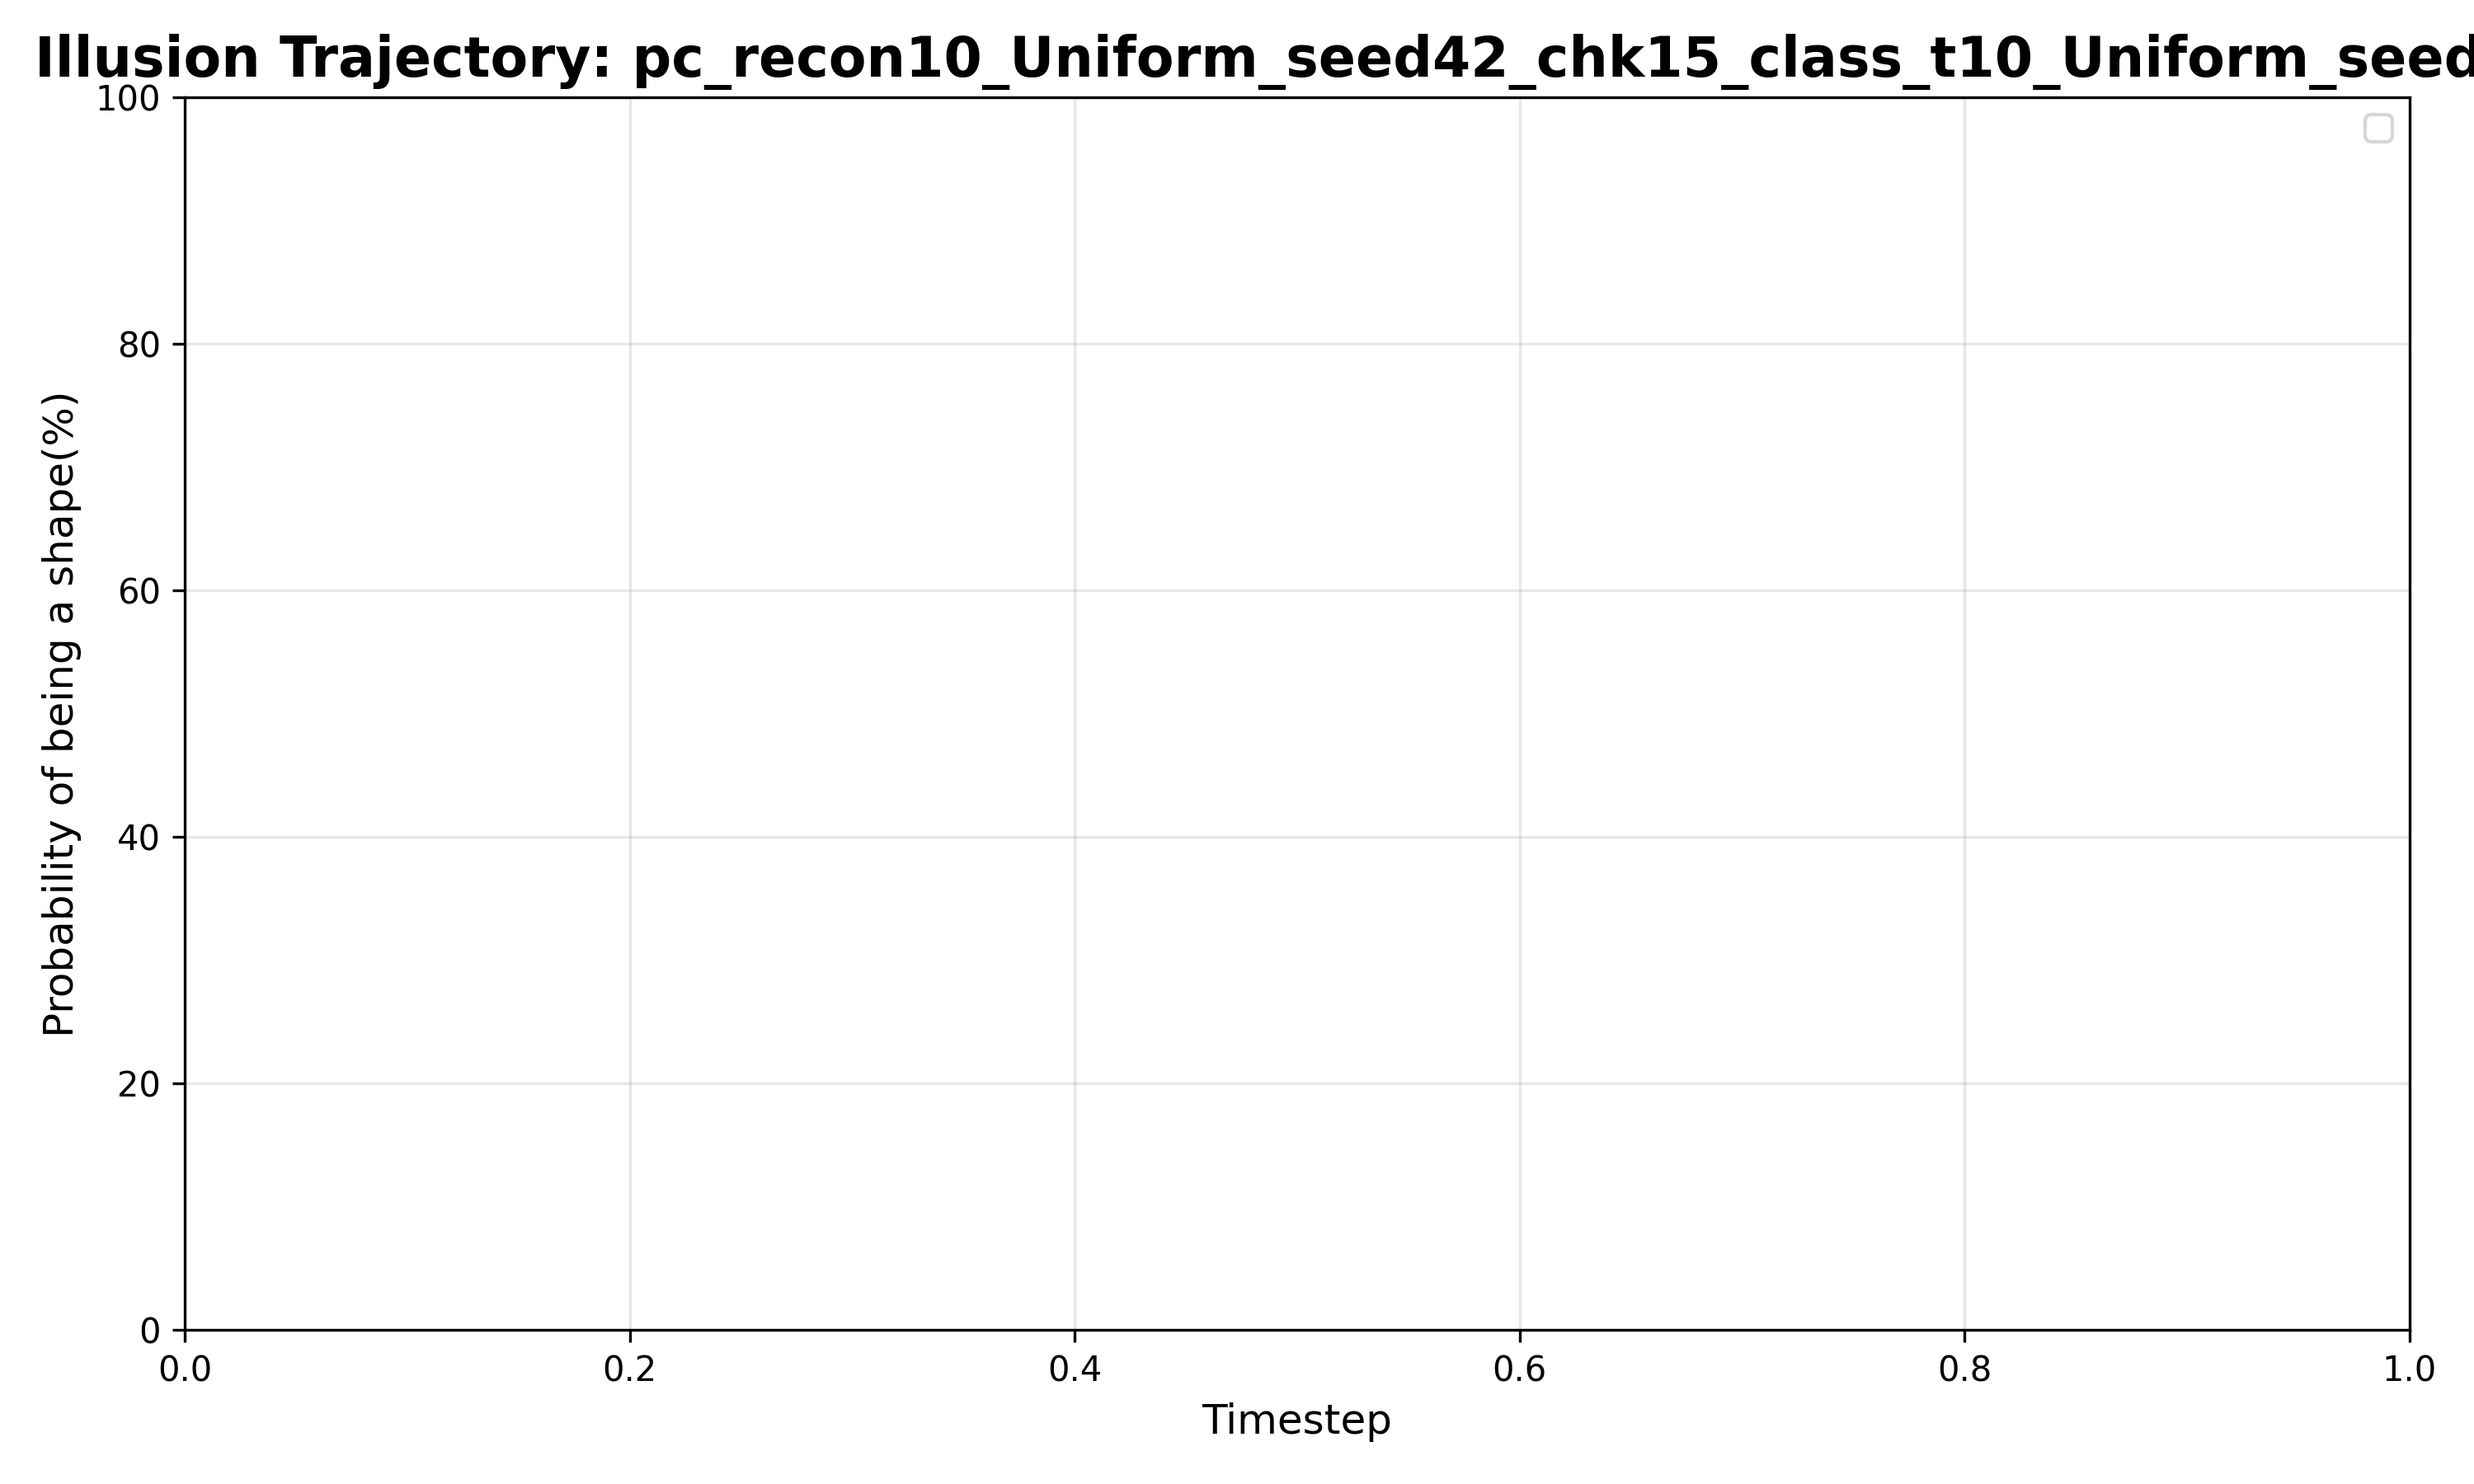
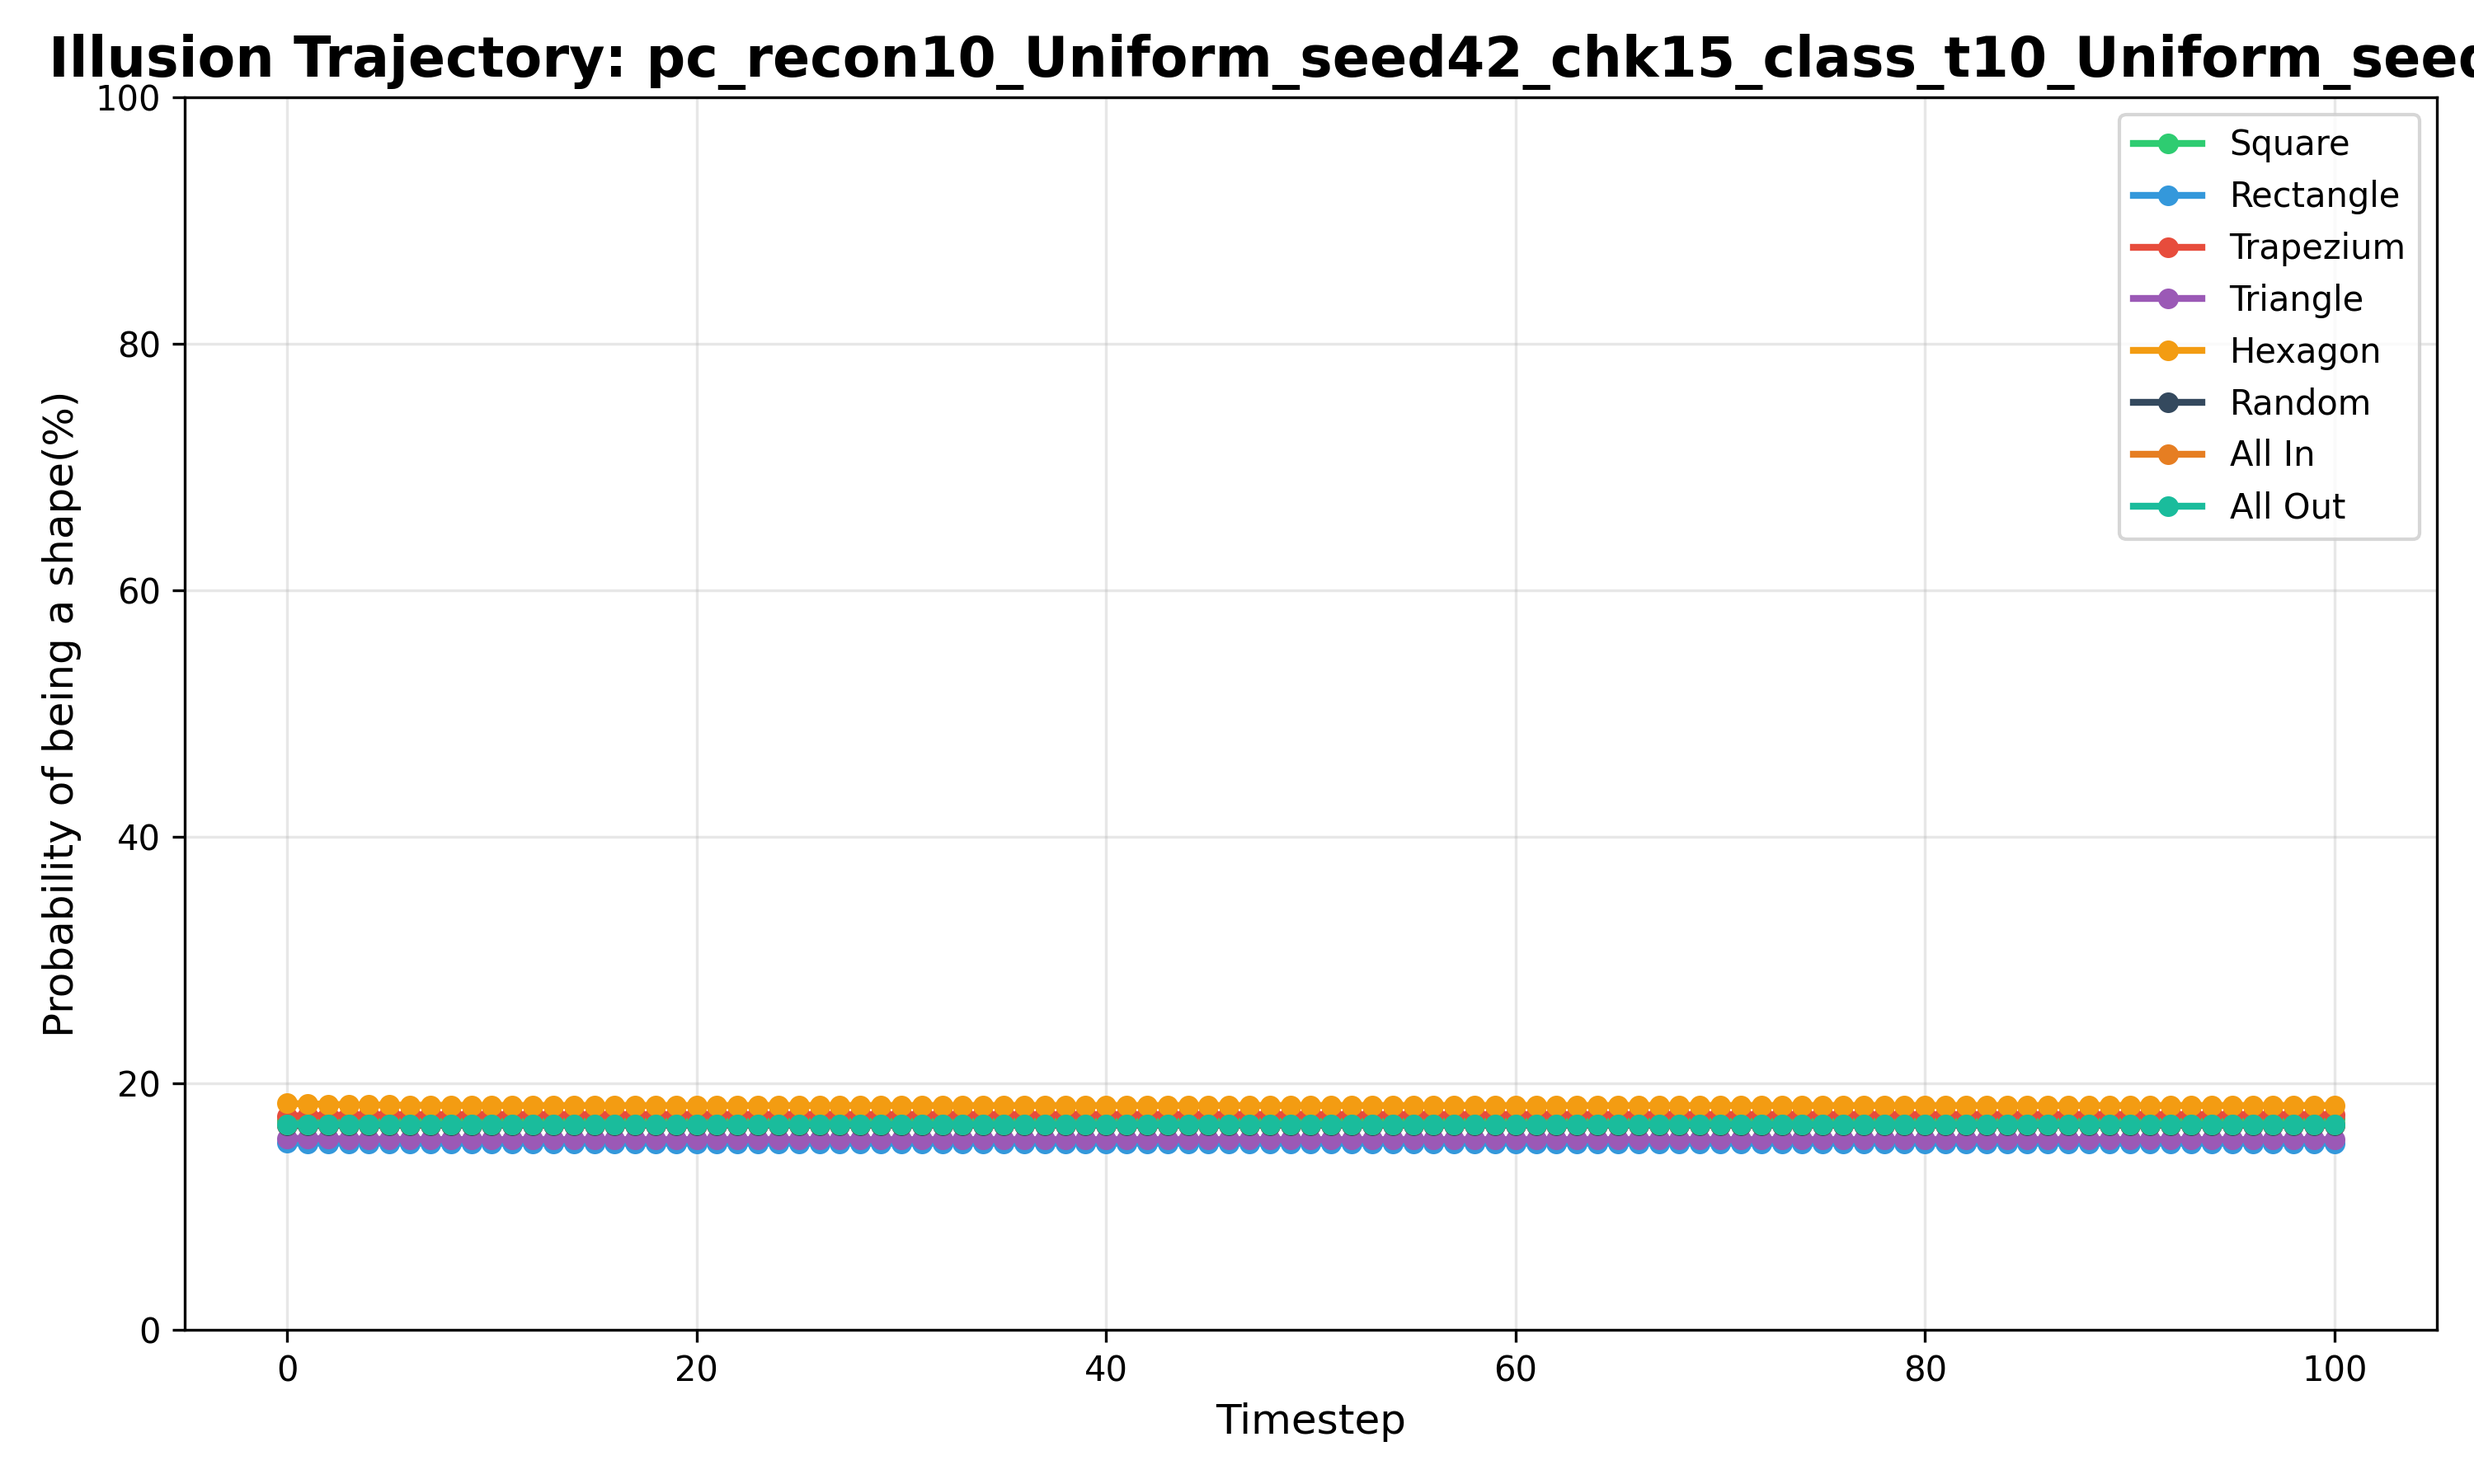
illusion testing debug

diff --git a/week11/illusion_pc_train.py b/week11/illusion_pc_train.py
@@ -189,22 +189,20 @@ def illusion_pc_training(net, trainloader, validationloader, testloader,
     # ============================================================
     if pc_train_bool == "test":
 
-        # Get class mapping from testloader
-        # testloader.dataset is a Subset, dataset.dataset is the original
-        # SquareDataset
+        """
+        Fixed test mode with proper predictive coding iterations
+        """
+        # Get class mapping
         test_dataset = testloader.dataset
         if hasattr(test_dataset, 'dataset'):
-            # It's a Subset
             class_to_idx = test_dataset.dataset.class_to_idx
         else:
-            # Direct dataset
             class_to_idx = test_dataset.class_to_idx
 
         print(f"\nTesting model: {model_name}")
         print(f"Class mapping: {class_to_idx}")
 
-        # Initialize results storage for ALL classes (including all_in,
-        # all_out)
+        # Initialize results storage
         all_classes = list(class_to_idx.keys())
         class_results = {
             cls: {
@@ -216,34 +214,21 @@ def illusion_pc_training(net, trainloader, validationloader, testloader,
 
         net.eval()
 
-        # Don't use torch.no_grad() because predictive_coding_pass needs
-        # gradients!
         for batch_idx, batch_data in enumerate(testloader):
             images, labels, cls_names, should_see = batch_data
-
             images_orig = images.to(config.device)
             labels = labels.to(config.device)
 
             # Process with different noise levels
             for noise in np.arange(0, 0.35, 0.05):
-                images = noisy_img(
-                    images_orig.clone(), "gauss", round(
-                        noise, 2))
+                images = noisy_img(images_orig.clone(), "gauss", round(noise, 2))
 
                 # Initialize feature tensors with actual batch size
                 batch_size = images.size(0)
-                ft_AB_pc_temp = torch.zeros(
-                    batch_size, 6, 32, 32).to(
-                    config.device)
-                ft_BC_pc_temp = torch.zeros(
-                    batch_size, 16, 16, 16).to(
-                    config.device)
-                ft_CD_pc_temp = torch.zeros(
-                    batch_size, 32, 8, 8).to(
-                    config.device)
-                ft_DE_pc_temp = torch.zeros(
-                    batch_size, 64, 4, 4).to(
-                    config.device)
+                ft_AB_pc_temp = torch.zeros(batch_size, 6, 32, 32).to(config.device)
+                ft_BC_pc_temp = torch.zeros(batch_size, 16, 16, 16).to(config.device)
+                ft_CD_pc_temp = torch.zeros(batch_size, 32, 8, 8).to(config.device)
+                ft_DE_pc_temp = torch.zeros(batch_size, 64, 4, 4).to(config.device)
 
                 # Initial feedforward
                 ft_AB_pc_temp, ft_BC_pc_temp, ft_CD_pc_temp, ft_DE_pc_temp, \
@@ -251,7 +236,7 @@ def illusion_pc_training(net, trainloader, validationloader, testloader,
                         images, ft_AB_pc_temp, ft_BC_pc_temp, ft_CD_pc_temp, ft_DE_pc_temp
                     )
 
-                # ✅ CRITICAL: Enable gradients for predictive coding
+                # Enable gradients for predictive coding
                 ft_AB_pc_temp = ft_AB_pc_temp.requires_grad_(True)
                 ft_BC_pc_temp = ft_BC_pc_temp.requires_grad_(True)
                 ft_CD_pc_temp = ft_CD_pc_temp.requires_grad_(True)
@@ -262,15 +247,46 @@ def illusion_pc_training(net, trainloader, validationloader, testloader,
 
                 # Record timestep 0
                 for i, cls_name in enumerate(cls_names):
-                    # Determine perceived class
                     if cls_name in ["all_in", "all_out"]:
                         perceived_class = should_see[i]
                     else:
                         perceived_class = cls_name
 
                     perceived_idx = class_to_idx[perceived_class]
-                    class_results[cls_name]["predictions"][0].append(
-                        probs[i, perceived_idx])
+                    class_results[cls_name]["predictions"][0].append(probs[i, perceived_idx])
+                    
+                    # Count total samples only once (not per timestep)
+                    if noise == 0.0:  # Only count on first noise level
+                        class_results[cls_name]["total"] += 1
+
+                # ✅ FIX: Run predictive coding iterations for timesteps 1 to config.timesteps
+                for t in range(config.timesteps):
+                    output, ft_AB_pc_temp, ft_BC_pc_temp, ft_CD_pc_temp, ft_DE_pc_temp, \
+                        ft_EF_pc_temp, loss_of_layers = net.predictive_coding_pass(
+                            images,
+                            ft_AB_pc_temp,
+                            ft_BC_pc_temp,
+                            ft_CD_pc_temp,
+                            ft_DE_pc_temp,
+                            ft_EF_pc_temp,
+                            config.betaset,
+                            config.gammaset,
+                            config.alphaset,
+                            batch_size
+                        )
+
+                    # Get probabilities at this timestep
+                    probs = F.softmax(output, dim=1).detach().cpu().numpy()
+
+                    # Record predictions
+                    for i, cls_name in enumerate(cls_names):
+                        if cls_name in ["all_in", "all_out"]:
+                            perceived_class = should_see[i]
+                        else:
+                            perceived_class = cls_name
+
+                        perceived_idx = class_to_idx[perceived_class]
+                        class_results[cls_name]["predictions"][t + 1].append(probs[i, perceived_idx])
 
                 # Cleanup
                 del ft_AB_pc_temp, ft_BC_pc_temp, ft_CD_pc_temp, ft_DE_pc_temp, ft_EF_pc_temp
@@ -307,4 +323,3 @@ def illusion_pc_training(net, trainloader, validationloader, testloader,
         plot_test_trajectory(class_results, model_name, config)
 
         return class_results
-

diff --git a/week11/main.py b/week11/main.py
@@ -350,6 +350,9 @@ def get_metrics_initialize(train_cond):
 	
     if train_cond == "recon_pc_train":
        metrics_history = {'train_loss': [], 'test_loss': []}
+    elif train_cond == "illusion_testing":
+       # ✅ FIX: Test mode doesn't produce training metrics
+       metrics_history = {}
     else :
        metrics_history = {'train_loss': [], 'test_loss': [],'train_acc':[],'test_acc':[],'illusory_datset_recon_loss':[],'cifar10_dataset_recon_loss':[]}
 

diff --git a/week11/configs/configtest.py b/week11/configs/configtest.py
@@ -36,6 +36,6 @@ save_model_path="/home/ajinkyar/ml_models"
 
 
 base_recon_model = "pc_recon10_Uniform_seed42"
-checkpoint_epoch = 10
+checkpoint_epoch = 100
 
 
